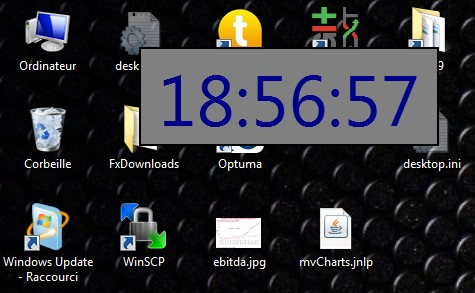
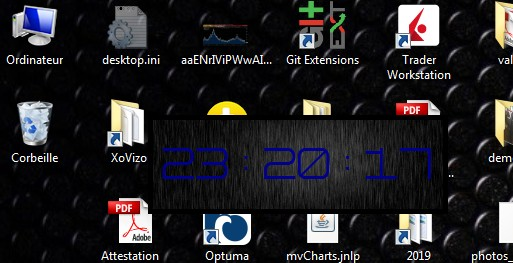
README updated

diff --git a/README.md b/README.md
@@ -12,5 +12,17 @@ Time Mode
 
 
 Chronometer Mode:
+
 ![Chrono](XoClock/ScreenShot/chronometer.jpg "Chronometer mode")
+
+
+Resized:
+![Chrono](XoClock/ScreenShot/chronometer2.jpg "Chronometer mode")
+
+
+
+With opacity changed with scroll of the mouse:
+![Chrono](XoClock/ScreenShot/chronometer3.jpg "Chronometer mode")
+
+
 
